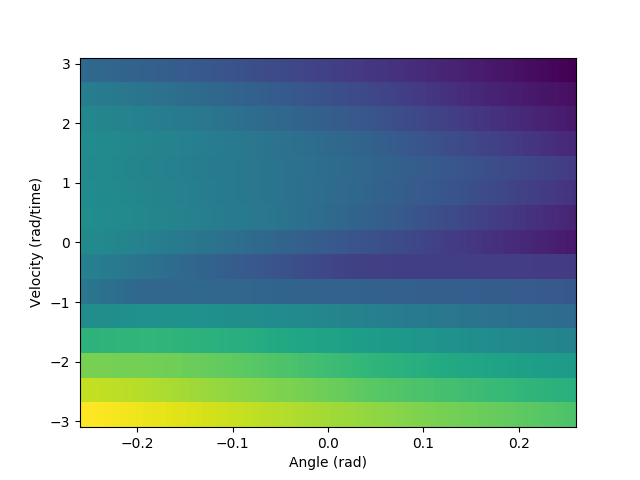
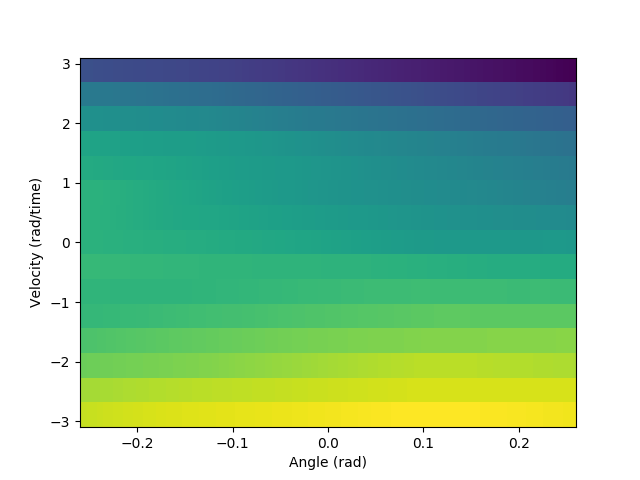
Made deep DPG work, but it doesn't learn :(

diff --git a/src/model/actorCritic.py b/src/model/actorCritic.py
@@ -30,7 +30,38 @@ class ValueNetwork(object):
             import gym
             env = gym.make(self.parameters.GAME_NAME)
             if self.parameters.CNN_REPR:
-                pass
+                if self.parameters.CNN_P_REPR:
+                    if self.parameters.CNN_P_RGB:
+                        channels = 3
+                    # GrayScale
+                    else:
+                        channels = 1
+                    if self.parameters.CNN_LAST_GRID:
+                        channels = channels * 2
+    
+                    if self.parameters.CNN_USE_L1:
+                        self.input_len = (self.parameters.CNN_INPUT_DIM_1,
+                                          self.parameters.CNN_INPUT_DIM_1, channels)
+                    elif self.parameters.CNN_USE_L2:
+                        self.input_len = (self.parameters.CNN_INPUT_DIM_2,
+                                          self.parameters.CNN_INPUT_DIM_2, channels)
+                    else:
+                        self.input_len = (self.parameters.CNN_INPUT_DIM_3,
+                                          self.parameters.CNN_INPUT_DIM_3, channels)
+                else:
+                    channels = self.parameters.NUM_OF_GRIDS
+                    if self.parameters.CNN_USE_L1:
+                        self.numCNNlayers = 1
+                        self.input_len = (channels, self.parameters.CNN_INPUT_DIM_1,
+                                          self.parameters.CNN_INPUT_DIM_1)
+                    elif self.parameters.CNN_USE_L2:
+                        self.numCNNlayers = 2
+                        self.input_len = (channels, self.parameters.CNN_INPUT_DIM_2,
+                                          self.parameters.CNN_INPUT_DIM_2)
+                    else:
+                        self.numCNNlayers = 3
+                        self.input_len = (channels, self.parameters.CNN_INPUT_DIM_3,
+                                          self.parameters.CNN_INPUT_DIM_3)
             else:
                 self.stateReprLen = env.observation_space.shape[0]
 
@@ -161,10 +192,41 @@ class PolicyNetwork(object):
             import gym
             env = gym.make(self.parameters.GAME_NAME)
             if self.parameters.CNN_REPR:
-                pass
+                if self.parameters.CNN_P_REPR:
+                    if self.parameters.CNN_P_RGB:
+                        channels = 3
+                    # GrayScale
+                    else:
+                        channels = 1
+                    if self.parameters.CNN_LAST_GRID:
+                        channels = channels * 2
+    
+                    if self.parameters.CNN_USE_L1:
+                        self.stateReprLen = (self.parameters.CNN_INPUT_DIM_1,
+                                          self.parameters.CNN_INPUT_DIM_1, channels)
+                    elif self.parameters.CNN_USE_L2:
+                        self.stateReprLen = (self.parameters.CNN_INPUT_DIM_2,
+                                          self.parameters.CNN_INPUT_DIM_2, channels)
+                    else:
+                        self.stateReprLen = (self.parameters.CNN_INPUT_DIM_3,
+                                          self.parameters.CNN_INPUT_DIM_3, channels)
+                else:
+                    channels = self.parameters.NUM_OF_GRIDS
+                    if self.parameters.CNN_USE_L1:
+                        self.numCNNlayers = 1
+                        self.stateReprLen = (channels, self.parameters.CNN_INPUT_DIM_1,
+                                          self.parameters.CNN_INPUT_DIM_1)
+                    elif self.parameters.CNN_USE_L2:
+                        self.numCNNlayers = 2
+                        self.stateReprLen = (channels, self.parameters.CNN_INPUT_DIM_2,
+                                          self.parameters.CNN_INPUT_DIM_2)
+                    else:
+                        self.numCNNlayers = 3
+                        self.stateReprLen = (channels, self.parameters.CNN_INPUT_DIM_3,
+                                          self.parameters.CNN_INPUT_DIM_3)
             else:
                 self.stateReprLen = env.observation_space.shape[0]
-                self.num_outputs = env.action_space.n
+            self.num_outputs = env.action_space.n
 
         if modelName is not None:
             self.load(modelName)
@@ -270,14 +332,41 @@ class ActionValueNetwork(object):
             import gym
             env = gym.make(self.parameters.GAME_NAME)
             if self.parameters.CNN_REPR:
-                print("This environment does not work with CNNs")
-                quit()
+                if self.parameters.CNN_P_REPR:
+                    if self.parameters.CNN_P_RGB:
+                        channels = 3
+                    # GrayScale
+                    else:
+                        channels = 1
+                    if self.parameters.CNN_LAST_GRID:
+                        channels = channels * 2
+    
+                    if self.parameters.CNN_USE_L1:
+                        self.stateReprLen = (self.parameters.CNN_INPUT_DIM_1,
+                                          self.parameters.CNN_INPUT_DIM_1, channels)
+                    elif self.parameters.CNN_USE_L2:
+                        self.stateReprLen = (self.parameters.CNN_INPUT_DIM_2,
+                                          self.parameters.CNN_INPUT_DIM_2, channels)
+                    else:
+                        self.stateReprLen = (self.parameters.CNN_INPUT_DIM_3,
+                                          self.parameters.CNN_INPUT_DIM_3, channels)
+                else:
+                    channels = self.parameters.NUM_OF_GRIDS
+                    if self.parameters.CNN_USE_L1:
+                        self.numCNNlayers = 1
+                        self.stateReprLen = (channels, self.parameters.CNN_INPUT_DIM_1,
+                                          self.parameters.CNN_INPUT_DIM_1)
+                    elif self.parameters.CNN_USE_L2:
+                        self.numCNNlayers = 2
+                        self.stateReprLen = (channels, self.parameters.CNN_INPUT_DIM_2,
+                                          self.parameters.CNN_INPUT_DIM_2)
+                    else:
+                        self.numCNNlayers = 3
+                        self.stateReprLen = (channels, self.parameters.CNN_INPUT_DIM_3,
+                                          self.parameters.CNN_INPUT_DIM_3)
             else:
                 self.stateReprLen = env.observation_space.shape[0]
-                self.num_outputs = env.action_space.n
-                print(self.stateReprLen)
-                print(self.num_outputs)
-
+            self.num_actions_inputs = env.action_space.n
 
         if modelName is not None:
             self.load(modelName)
@@ -371,6 +460,7 @@ class ActorCritic(object):
         self.counts = [] # For SPG/CACLA: count how much actor training we do each step
         self.caclaVar = parameters.CACLA_VAR_START
         self.input = None
+        self.numCNNlayers = 0
 
         if self.parameters.GAME_NAME == "Agar.io":
             self.action_len = 2 + self.parameters.ENABLE_SPLIT + self.parameters.ENABLE_EJECT
@@ -400,22 +490,56 @@ class ActorCritic(object):
                 else:
                     channels = self.parameters.NUM_OF_GRIDS
                     if self.parameters.CNN_USE_L1:
+                        self.numCNNlayers = 1
                         self.input_len = (channels, self.parameters.CNN_INPUT_DIM_1,
                                           self.parameters.CNN_INPUT_DIM_1)
                     elif self.parameters.CNN_USE_L2:
+                        self.numCNNlayers = 2
                         self.input_len = (channels, self.parameters.CNN_INPUT_DIM_2,
                                           self.parameters.CNN_INPUT_DIM_2)
                     else:
+                        self.numCNNlayers = 3
                         self.input_len = (channels, self.parameters.CNN_INPUT_DIM_3,
                                           self.parameters.CNN_INPUT_DIM_3)
         else:
             import gym
             env = gym.make(self.parameters.GAME_NAME)
             if self.parameters.CNN_REPR:
-                pass
+                if self.parameters.CNN_P_REPR:
+                    if self.parameters.CNN_P_RGB:
+                        channels = 3
+                    # GrayScale
+                    else:
+                        channels = 1
+                    if self.parameters.CNN_LAST_GRID:
+                        channels = channels * 2
+    
+                    if self.parameters.CNN_USE_L1:
+                        self.input_len = (self.parameters.CNN_INPUT_DIM_1,
+                                          self.parameters.CNN_INPUT_DIM_1, channels)
+                    elif self.parameters.CNN_USE_L2:
+                        self.input_len = (self.parameters.CNN_INPUT_DIM_2,
+                                          self.parameters.CNN_INPUT_DIM_2, channels)
+                    else:
+                        self.input_len = (self.parameters.CNN_INPUT_DIM_3,
+                                          self.parameters.CNN_INPUT_DIM_3, channels)
+                else:
+                    channels = self.parameters.NUM_OF_GRIDS
+                    if self.parameters.CNN_USE_L1:
+                        self.numCNNlayers = 1
+                        self.input_len = (channels, self.parameters.CNN_INPUT_DIM_1,
+                                          self.parameters.CNN_INPUT_DIM_1)
+                    elif self.parameters.CNN_USE_L2:
+                        self.numCNNlayers = 2
+                        self.input_len = (channels, self.parameters.CNN_INPUT_DIM_2,
+                                          self.parameters.CNN_INPUT_DIM_2)
+                    else:
+                        self.numCNNlayers = 3
+                        self.input_len = (channels, self.parameters.CNN_INPUT_DIM_3,
+                                          self.parameters.CNN_INPUT_DIM_3)
             else:
                 self.input_len = env.observation_space.shape[0]
-            self.output_len = env.action_space.n
+            self.action_len = env.action_space.n
      
         # Bookkeeping:
         self.latestTDerror = None
@@ -425,7 +549,7 @@ class ActorCritic(object):
         self.combinedActorCritic = None
 
     def createCombinedActorCritic(self, actor, critic):
-        for layer in critic.model.layers:
+        for layer in critic.model.layers[self.numCNNlayers+1:]:
             layer.trainable = False
         #mergeLayer = keras.layers.concatenate([actor.inputs[0], actor.outputs[0]])
         nonTrainableCritic = critic.model([actor.model.inputs[0], actor.model.outputs[0]])
@@ -533,16 +657,21 @@ class ActorCritic(object):
             conv = Conv2D(kernel_1[2], kernel_size=(kernel_1[0], kernel_1[0]),
                           strides=(kernel_1[1], kernel_1[1]), activation='relu',
                           data_format=data_format)(conv)
+            self.numCNNlayers += 1
         if self.parameters.CNN_USE_L2:
             conv = Conv2D(kernel_2[2], kernel_size=(kernel_2[0], kernel_2[0]),
                           strides=(kernel_2[1], kernel_2[1]), activation='relu',
                           data_format=data_format)(conv)
+            self.numCNNlayers += 1
+
         if self.parameters.CNN_USE_L3:
             conv = Conv2D(kernel_3[2], kernel_size=(kernel_3[0], kernel_3[0]),
                           strides=(kernel_3[1], kernel_3[1]), activation='relu',
                           data_format=data_format)(conv)
+            self.numCNNlayers += 1
 
         cnnLayers = Flatten()(conv)
+        self.numCNNlayers += 1
         return cnnLayers, cnnInput
 
     def updateNoise(self):

diff --git a/src/aigar.py b/src/aigar.py
@@ -19,6 +19,7 @@ from builtins import input
 import multiprocessing as mp
 from time import sleep
 import gym
+# import cv2
 
 from view.view import View
 from modelCombiner import createCombinedModelGraphs, plot
@@ -796,8 +797,14 @@ def performGymSteps(experience_queue, processNum, model_in_subfolder, loadModel,
 
     # Move collector forward to decorrelate (to break correlations between game stage across collectors)
     print("Desynchronizing worker #" + str(processNum) + "...")
-    observation = env.reset()
-    observation = np.array([observation])
+    if parameters.CNN_REPR:
+        env.reset()
+        observation = env.render(mode='rgb_array')
+        size = (parameters.CNN_INPUT_DIM_1, parameters.CNN_INPUT_DIM_1)
+        observation = cv2.resize(observation, dsize=size, interpolation=cv2.INTER_CUBIC)
+    else:
+        observation = np.array([env.reset()])
+        
     step = 0
     for i in range((processNum-1) * 100):
         if guiEnabled and processInGUISet:
@@ -807,12 +814,22 @@ def performGymSteps(experience_queue, processNum, model_in_subfolder, loadModel,
         if parameters.ALGORITHM == "CACLA" or parameters.ALGORITHM == "DPG":
             actionIdx = np.argmax(action)
         observation, reward, done, info = env.step(actionIdx)
-        observation = np.array([observation])
+        if parameters.CNN_REPR:
+            observation = env.render(mode='rgb_array')
+            size = (parameters.CNN_INPUT_DIM_1, parameters.CNN_INPUT_DIM_1)
+            observation = cv2.resize(observation, dsize=size, interpolation=cv2.INTER_CUBIC)
+        else:
+            observation = np.array([observation])
         step += 1
         if done:
             reward = -1
-            observation = env.reset()
-            observation = np.array([observation])
+            if parameters.CNN_REPR:
+                env.reset()
+                observation = env.render(mode='rgb_array')
+                size = (parameters.CNN_INPUT_DIM_1, parameters.CNN_INPUT_DIM_1)
+                observation = cv2.resize(observation, dsize=size, interpolation=cv2.INTER_CUBIC)
+            else:
+                observation = np.array([env.reset()])
             step = 0
     print("Finished desynchronizing worker #" + str(processNum) + ".")
     events[processNum].set()
@@ -820,7 +837,7 @@ def performGymSteps(experience_queue, processNum, model_in_subfolder, loadModel,
 
     # Run game until terminated
     while True:
-        actionIdx, action = learningAlg.decideMove(observation)
+        # actionIdx, action = learningAlg.decideMove(observation)
         actionIdx, action = learningAlg.decideMove(observation)
         if parameters.ALGORITHM == "CACLA" or parameters.ALGORITHM == "DPG":
             actionIdx = np.argmax(action)
@@ -1083,10 +1100,18 @@ def cartPoleTest(alg, path, name, parameters):
                 values = network.predict_action(np.array([[0.0,0.0,float(3.14/180*t/5 -3.14/180*15),float(v/5.0-1.5)]]))
                 row.append(values[np.argmax(values)])
 
-            elif parameters.ALGORITHM == "CACLA" or parameters.ALGORITHM == "DPG":
+            elif parameters.ALGORITHM == "CACLA":
                 network = alg.getNetworks()["V(S)"]
                 value = network.predict(np.array([[0.0,0.0,float(3.14/180*t/5 -3.14/180*15),float(v/5.0-1.5)]]))
                 row.append(value)
+                
+            elif parameters.ALGORITHM == "DPG":
+                network = alg.getNetworks()["Q(S,A)"]
+                state = np.array([[0.0,0.0,float(3.14/180*t/5 -3.14/180*15),float(v/5.0-1.5)]])
+                action = np.array([[0.0, 0.0]])
+                value = network.predict(state,action)
+                row.append(value)
+                
             else:
                 print("You w0t m8?")
                 quit()

diff --git a/src/model/networkParameters.py b/src/model/networkParameters.py
@@ -210,7 +210,7 @@ CNN_L3 = (3, 1, 64)
 CNN_INPUT_DIM_3 = 42
 
 # Pixel representation
-CNN_P_REPR = False if CNN_REPR else False
+CNN_P_REPR = True if CNN_REPR else False
 CNN_P_RGB = False if CNN_P_REPR else False
 CNN_P_INCEPTION = False
 CNN_LAST_GRID = False
